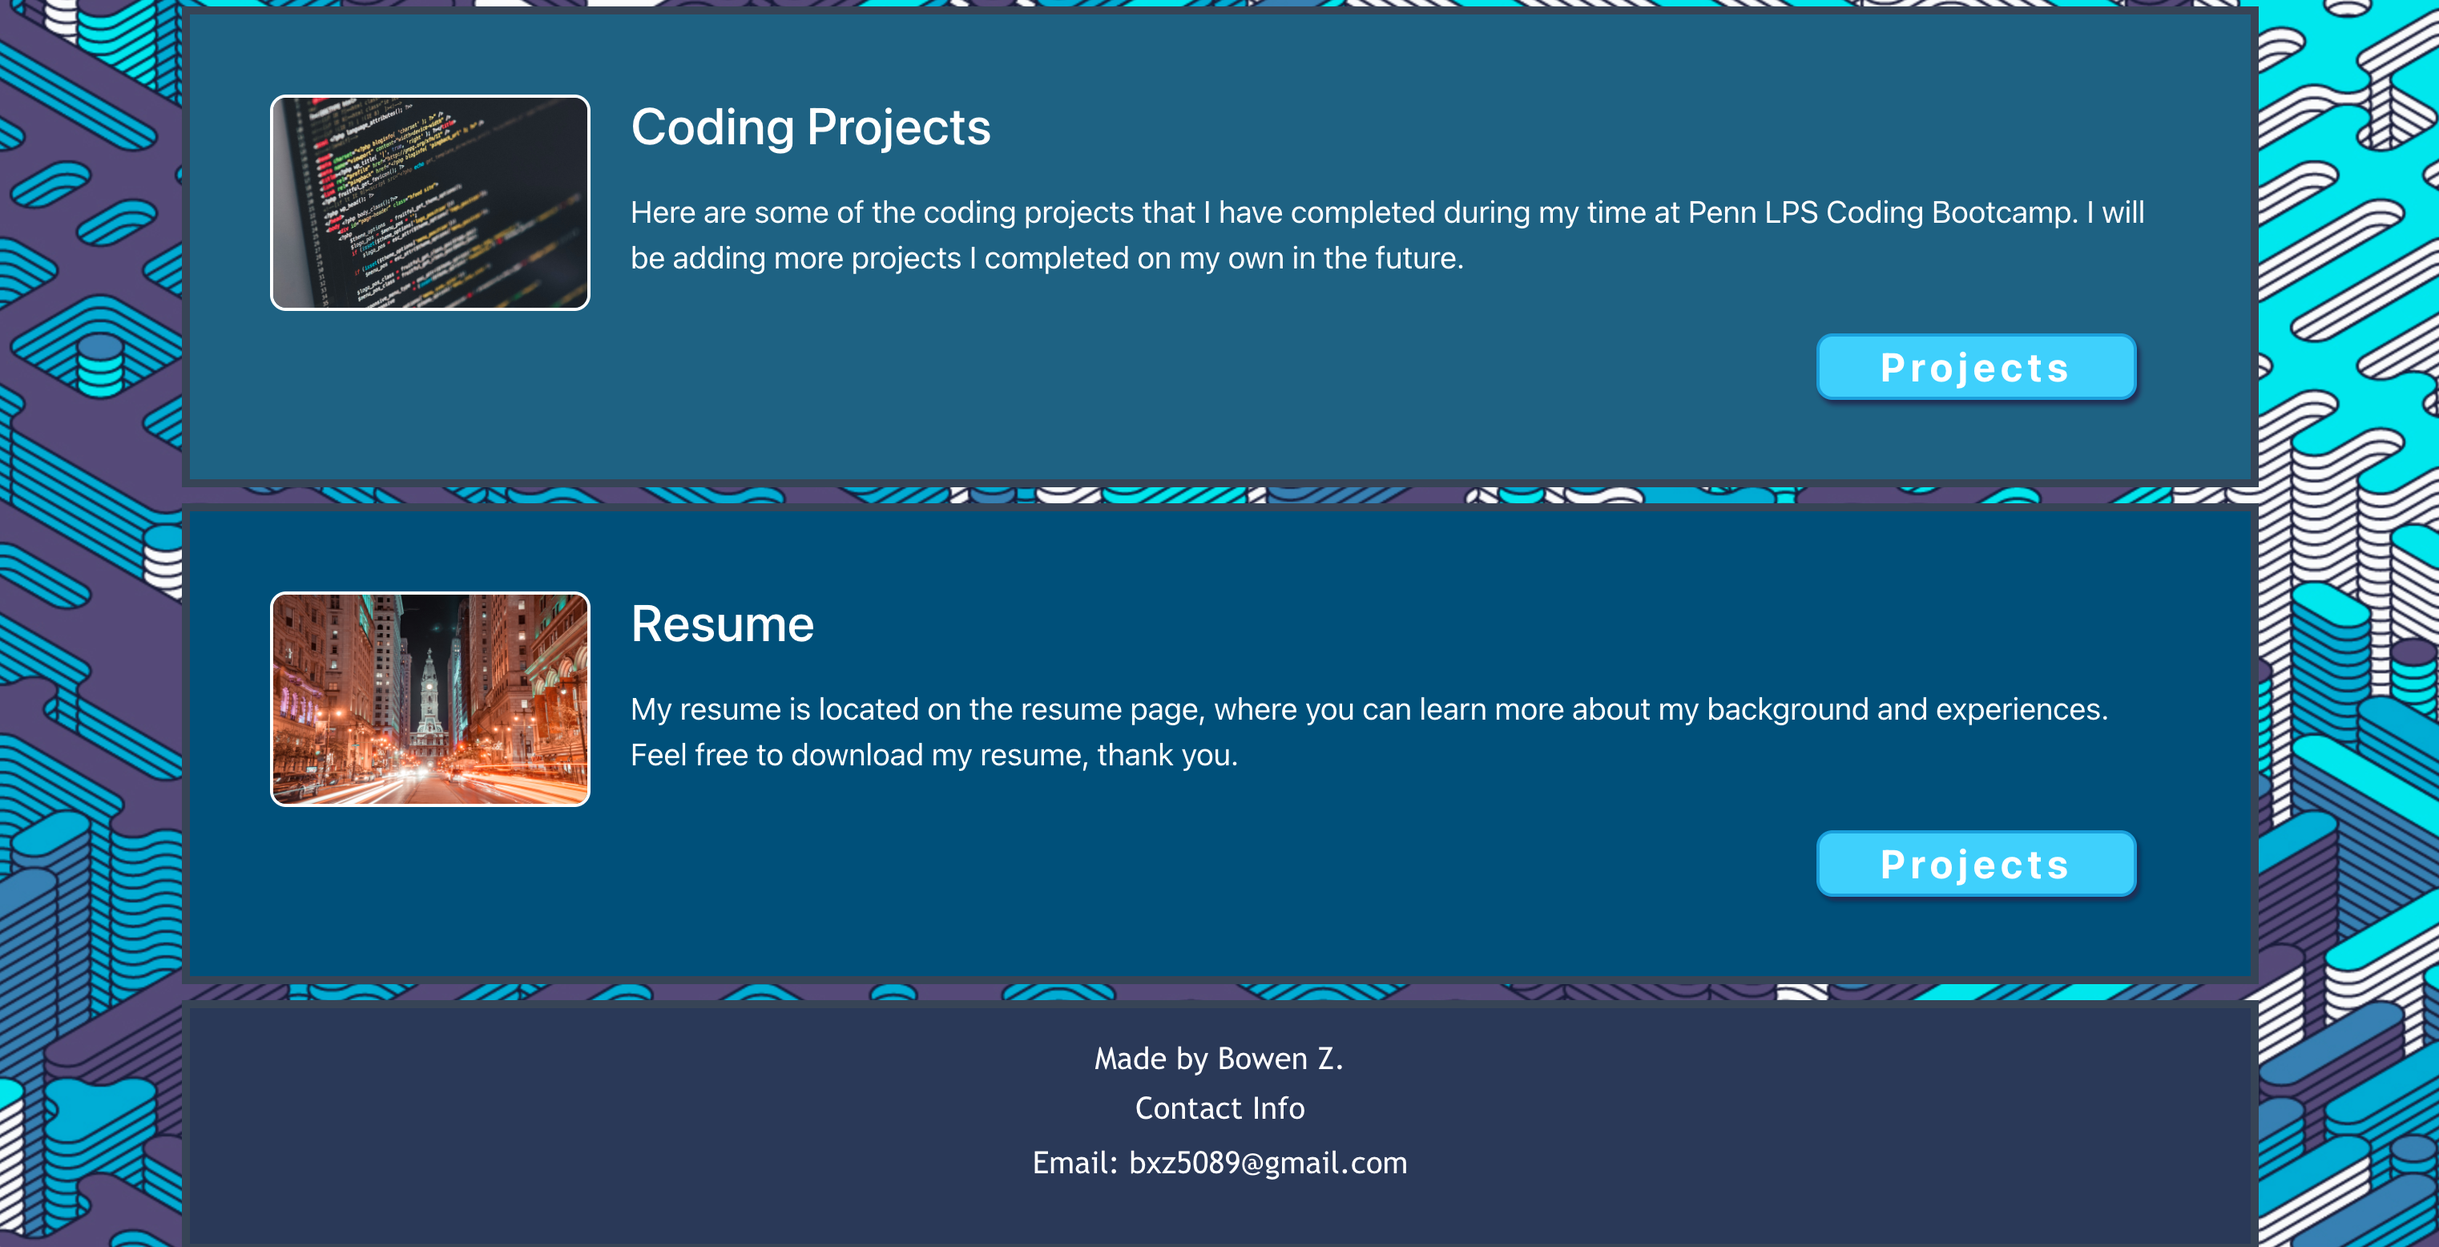
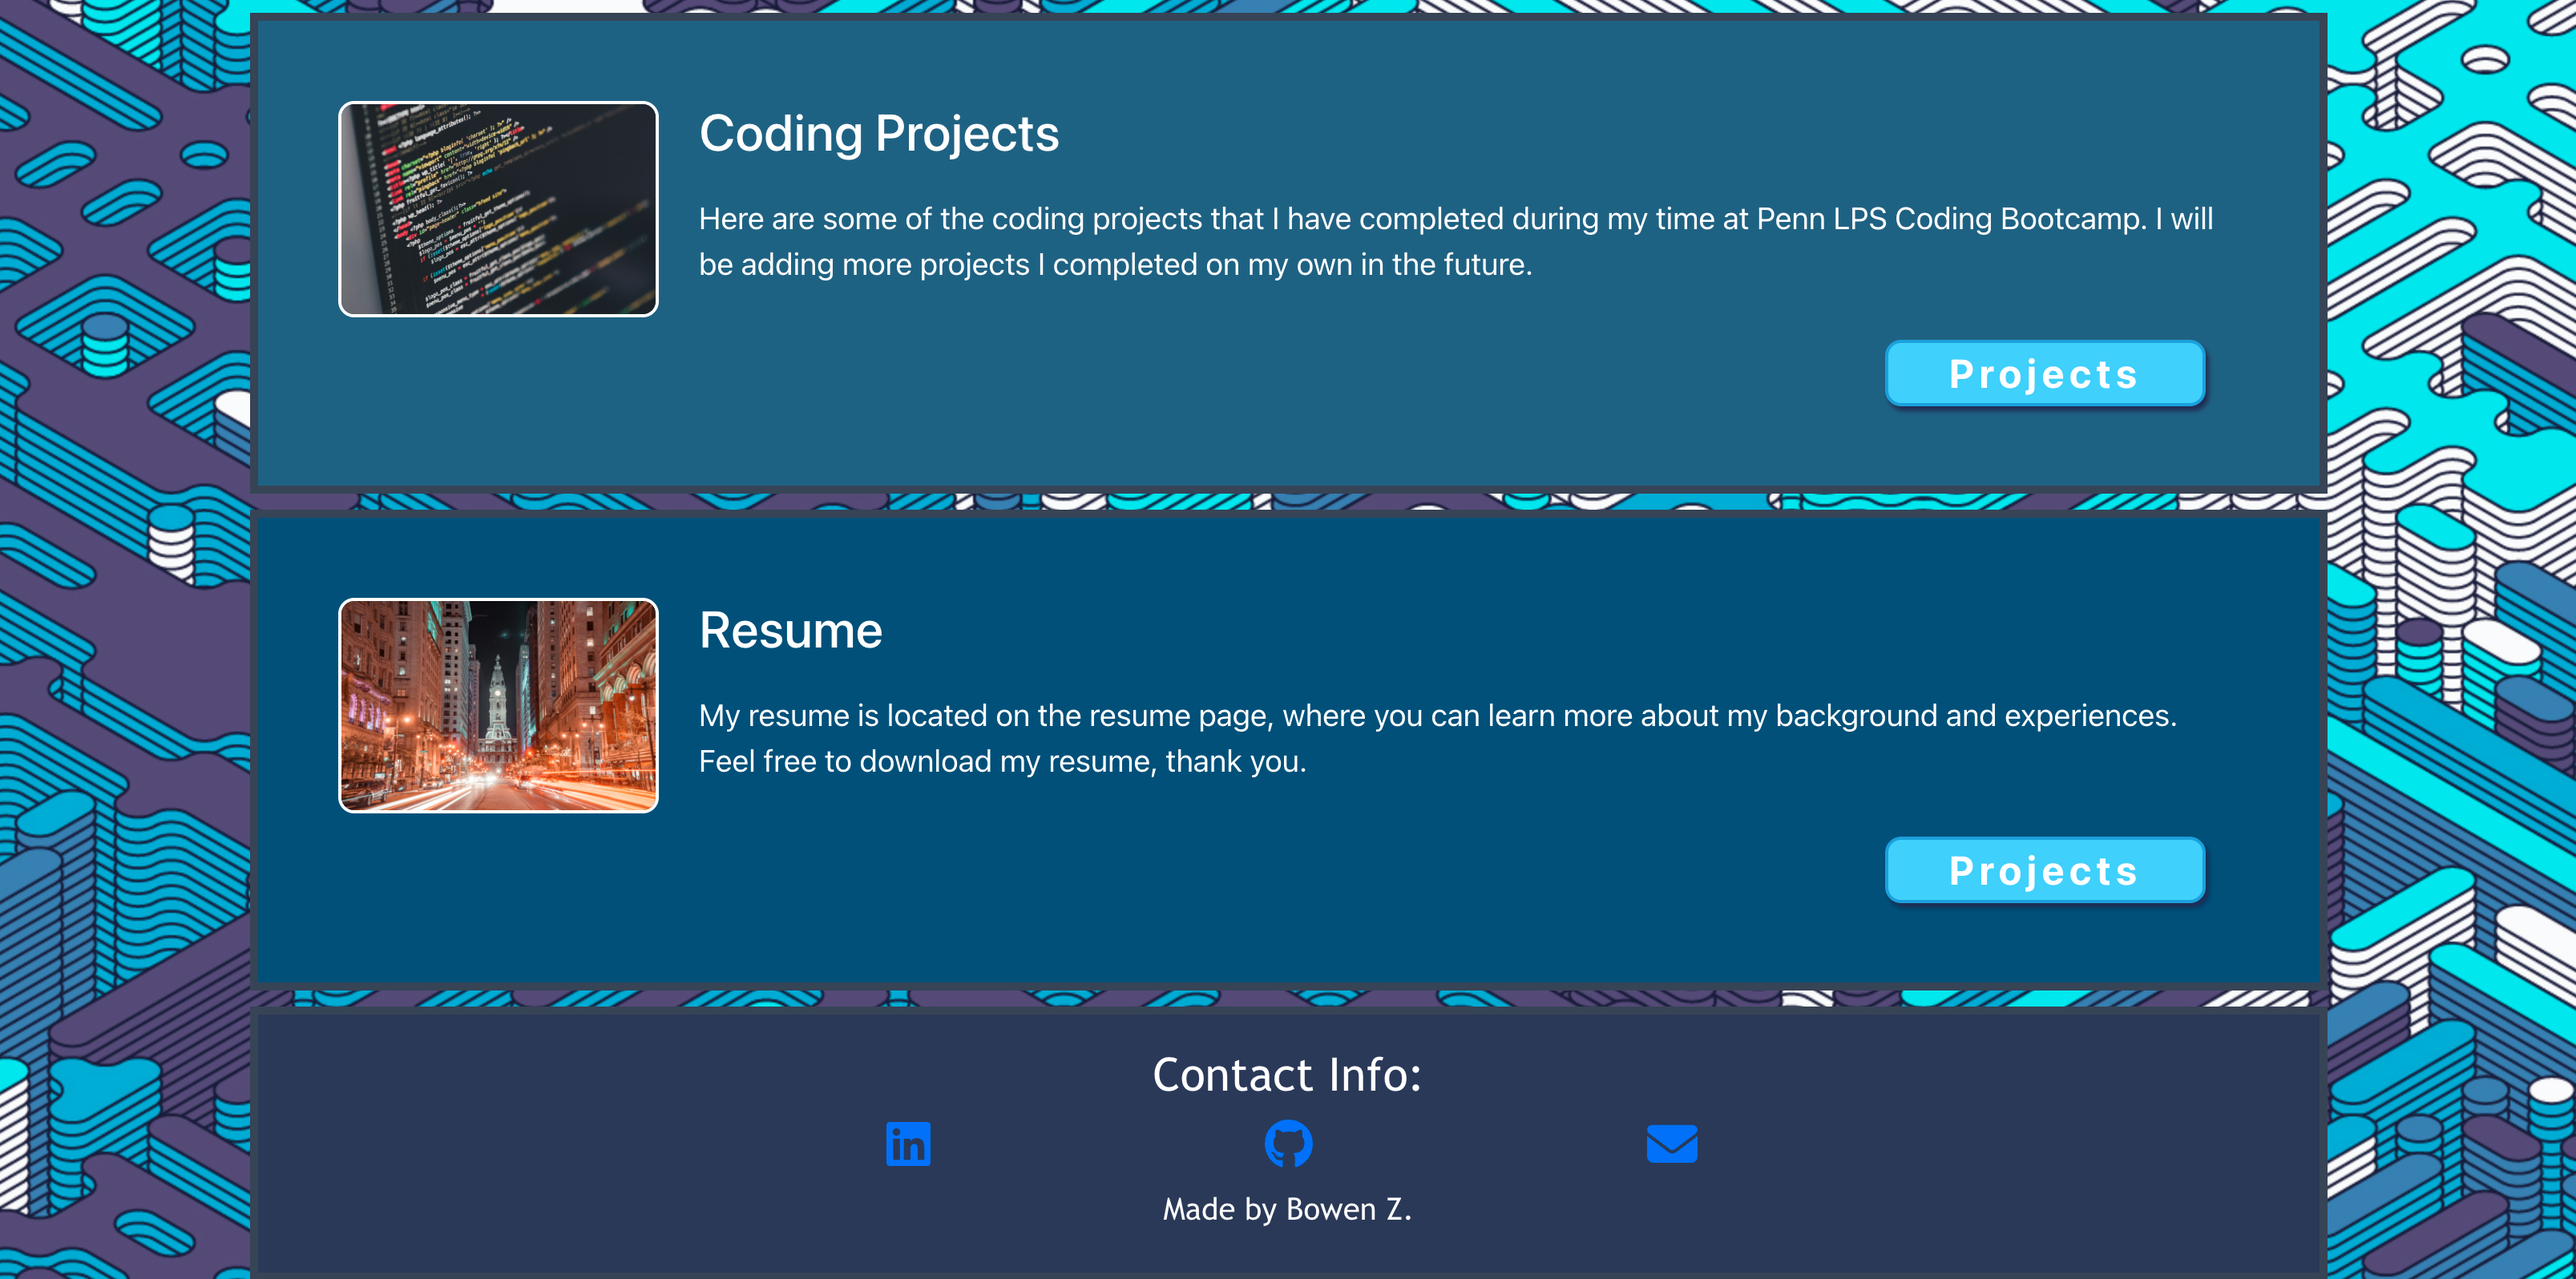
More updates to styles and links

diff --git a/portfolio/src/components/Footer.js b/portfolio/src/components/Footer.js
@@ -1,4 +1,9 @@
 import React, { useState } from 'react';
+import { FontAwesomeIcon } from '@fortawesome/react-fontawesome';
+import { faLinkedin } from '@fortawesome/free-brands-svg-icons';
+import { faGithub } from '@fortawesome/free-brands-svg-icons';
+import { faEnvelope } from '@fortawesome/free-solid-svg-icons';
+import { Link } from 'react-router-dom';
 
 function Footer() {
     return (
@@ -6,9 +11,21 @@ function Footer() {
         <div class="container">
  
             <footer className="footer contentBox">
+
+                <div className="row">  
+                <h3>Contact Info:</h3>
+                    <div className="col d-flex justify-content-end text-end">
+                        <a href="https://www.linkedin.com/in/bowen-zheng-05942713a/"><FontAwesomeIcon icon={faLinkedin} size='lg'/></a> 
+                    </div>
+                    <div className="col d-flex justify-content-center text-center">
+                        <a href="https://github.com/bxz5089"><FontAwesomeIcon icon={faGithub} size='lg'/></a> 
+                    </div>
+                    <div className="col d-flex justify-content-start text-start">
+                        <a href="mailto:bxz5089@gmail.com"><FontAwesomeIcon icon={faEnvelope} size='lg'/></a>       
+                    </div>
+                </div>           
                 <h2>Made by Bowen Z.</h2>
-                <h3>Contact Info</h3>
-                <p>Email: bxz5089@gmail.com</p>
+     
             </footer> 
         
         </div>

diff --git a/portfolio/src/components/Header.js b/portfolio/src/components/Header.js
@@ -8,7 +8,7 @@ function Header () {
 
             <div className="col-xs-12 col-sm-12 col-md-12 justify-content-center">
                 <nav className="navbar navbar-expand-lg navbar-dark bg-dark navBarStyle contentBox">
-                    <Link to="/" className="nav-brand-link"><p className="navbar-brand">Bowen <span className="lastname">Zheng</span></p></Link>
+                    <Link to="/" className="nav-brand-link"><p className="navbar-brand"><span className="firstname">Bowen</span> <span className="lastname">Zheng</span></p></Link>
                     <button className="navbar-toggler" type="button" data-bs-toggle="collapse" data-bs-target="#navbarNav" aria-controls="navbarNav" aria-expanded="false" aria-label="Toggle navigation">
                         <span className="navbar-toggler-icon"></span>
                     </button>

diff --git a/portfolio/src/App.css b/portfolio/src/App.css
@@ -36,20 +36,20 @@ img {
 
 }
 
-.navBarStyle {
-  margin-bottom: 10px;
-}
-
 .navBarStyle a {
   font-family: "Rubik", sans-serif;
-  font-size: 20px;
+  font-size: 25px;
+}
+
+.firstname {
+  font-size: 35px;
 }
 
 .lastname {
   color: red;
   padding: 0;
   margin: 0;
-  font-size: 20px;
+  font-size: 25px;
 }
 
 .main-picture {
@@ -68,8 +68,8 @@ img {
 
 .main-picture h1 {
   position: absolute;
-  bottom: 100px;
-  left: 100px;
+  bottom: 80px;
+  left: 60px;
   color: #ffffff;
   font-size: 280%;
 }
@@ -279,9 +279,18 @@ img {
   background-color: rgb(45, 56, 90);
 }
 
+.footer h3 {
+  font-size: 180%;
+  color: #ffffff;
+}
+
 .footer h2,
-.footer h3,
 .footer p {
   font-size: 120%;
   color: #ffffff;
+  padding-top: 10px;
+}
+
+.FontAwesomeIcon {
+  font-size: 30px;
 }
